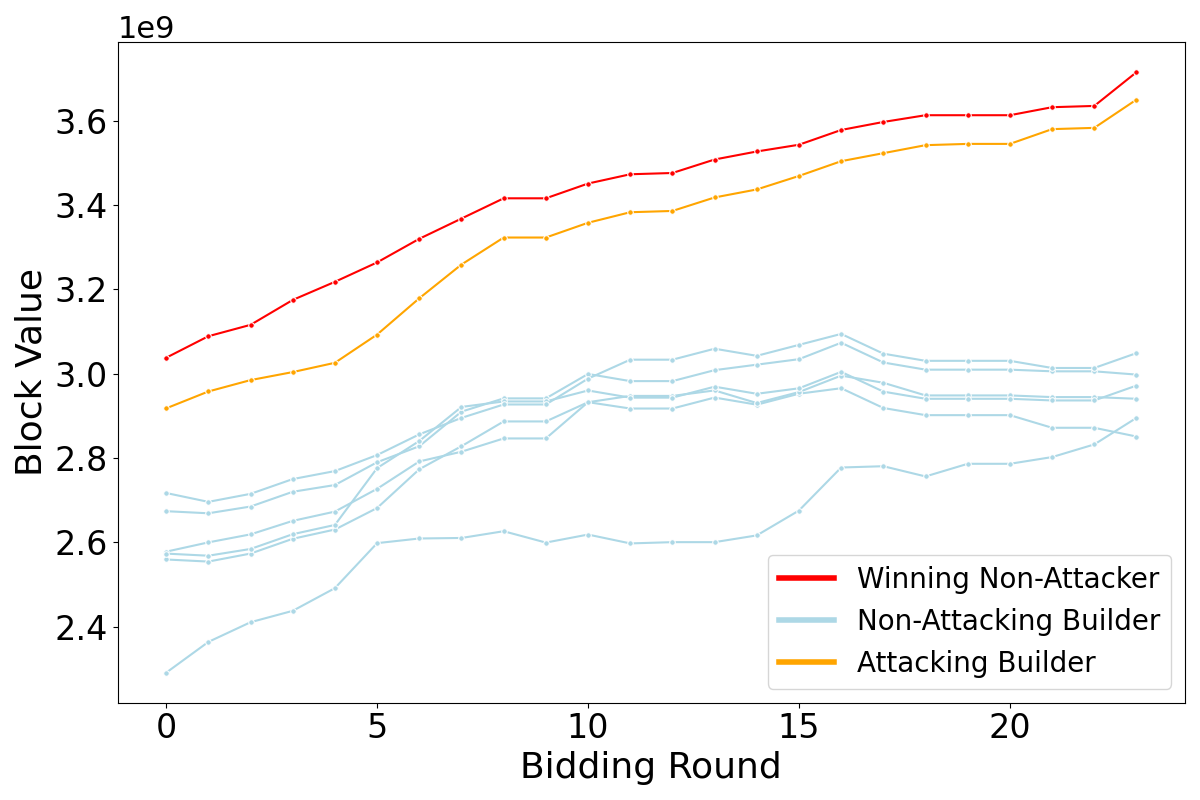
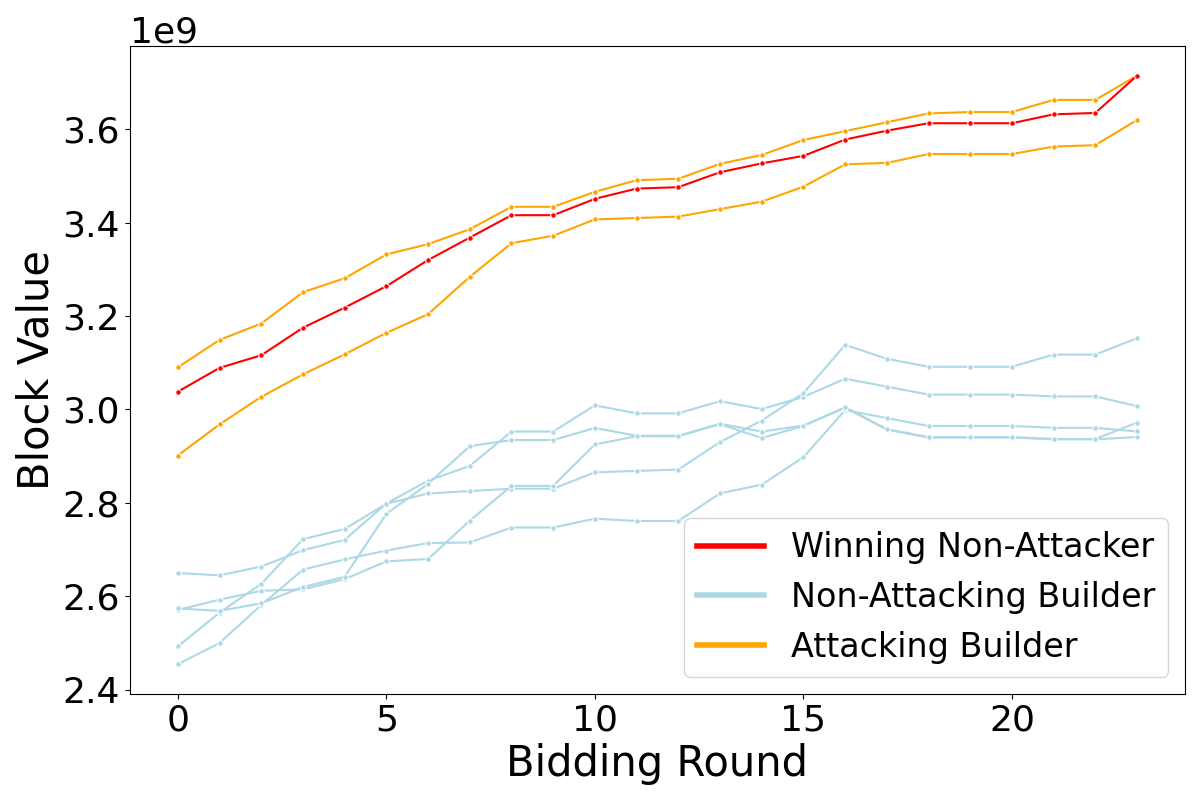
bidding font

diff --git a/plots/ss/bidding_dynamic.py b/plots/ss/bidding_dynamic.py
@@ -192,12 +192,12 @@ def plot_block_value_dynamics(file_path, block_number):
         "Attacking Builder": "orange"
     }
     legend_handles = [plt.Line2D([0], [0], color=color, lw=4, label=label) for label, color in legend_labels.items()]
-    plt.legend(handles=legend_handles, loc="lower right", fontsize=20)
+    plt.legend(handles=legend_handles, loc="lower right", fontsize=24)
 
-    plt.xlabel('Bidding Round', fontsize=26)
-    plt.ylabel('Block Value', fontsize=26)
-    plt.tick_params(axis='both', which='major', labelsize=24)
-    plt.gca().yaxis.get_offset_text().set_fontsize(22)
+    plt.xlabel('Bidding Round', fontsize=30)
+    plt.ylabel('Block Value', fontsize=30)
+    plt.tick_params(axis='both', which='major', labelsize=26)
+    plt.gca().yaxis.get_offset_text().set_fontsize(26)
     plt.tight_layout()
     plt.savefig(output_figure_path)
     plt.show()
